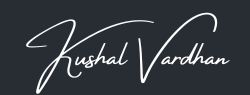
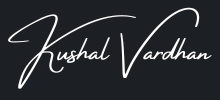
Home page completed ✅

Changed region(s): [[0.0273, 0.1263, 0.6273, 0.9895], [0.5455, 0.0632, 0.9818, 0.8842]]

diff --git a/frontend/src/components/Socials.jsx b/frontend/src/components/Socials.jsx
@@ -1,12 +1,24 @@
 import React from "react";
-import { twitter,linkedin,github,code,hashnode,discord,email } from "../assets/Icons.js";
+import {
+  twitter,
+  linkedin,
+  github,
+  code,
+  hashnode,
+  discord,
+  email,
+} from "../assets/Icons.js";
 
 const Socials = () => {
   return (
-    <div className="flex items-center justify-between border-1 border-[#941bb6] p-3">
-      <span className="text-2xl">Software Engineer and Web Developer</span>
-      <div className="flex items-center gap-5">
-        <a href="https://x.com/Kuvar2941" target="_blank" aria-label="Twitter">
+    <div className="flex items-center m-3 justify-center">
+      <div className="flex items-center gap-8">
+        <a
+          href="https://x.com/Kuvar2941"
+          target="_blank"
+          aria-label="Twitter"
+           className="inline-block transform transition-all duration-700 hover:scale-150"
+        >
           <img src={twitter} alt="Twitter" width={"35px"} />
         </a>
 
@@ -14,6 +26,7 @@ const Socials = () => {
           href="https://www.linkedin.com/in/kushalvardhan1804/"
           target="_blank"
           aria-label="LinkedIn"
+            className="inline-block transform transition-all duration-700 hover:scale-150 "
         >
           <img src={linkedin} alt="LinkedIn" width={"35px"} />
         </a>
@@ -22,6 +35,7 @@ const Socials = () => {
           href="https://github.com/Kushalvardhan18"
           target="_blank"
           aria-label="GitHub"
+           className="inline-block transform transition-all duration-700 hover:scale-150 "
         >
           <img src={github} alt="GitHub" width={"35px"} />
         </a>
@@ -30,6 +44,7 @@ const Socials = () => {
           href="https://leetcode.com/u/Kuvar2941/"
           target="_blank"
           aria-label="LeetCode"
+          className="inline-block transform transition-all duration-700 hover:scale-150 "
         >
           <img src={code} alt="LeetCode" width={"35px"} />
         </a>
@@ -38,6 +53,7 @@ const Socials = () => {
           href="https://discord.gg/5vy8sWr4Nd"
           target="_blank"
           aria-label="Discord"
+           className="inline-block transform transition-all duration-700 hover:scale-150 "
         >
           <img src={discord} alt="Discord" width={"35px"} />
         </a>
@@ -46,11 +62,17 @@ const Socials = () => {
           href="https://hashnode.com/@kuvar2941"
           target="_blank"
           aria-label="HashNode"
+            className="inline-block transform transition-all duration-700 hover:scale-150 "
         >
           <img src={hashnode} alt="HashNode" width={"35px"} />
         </a>
 
-        <a href="" target="_blank" aria-label="Email">
+        <a
+          href=""
+          target="_blank"
+          aria-label="Email"
+          className="inline-block transform transition-all duration-700 hover:scale-150 "
+        >
           <img src={email} alt="Email" width={"35px"} />
         </a>
       </div>

diff --git a/frontend/src/App.jsx b/frontend/src/App.jsx
@@ -1,44 +1,21 @@
-import Socials from "./components/Socials";
-import Navigations from "./components/Navigations";
-import { pronounce } from "./assets/Icons";
-import { myPic } from "./assets/images";
-
+import Home from "./pages/Home.jsx";
+import ContactMe from "./pages/ContactMe.jsx"
+import HireMe from "./pages/HireMe.jsx"
+import About from "./pages/About.jsx"
+import {BrowserRouter as Router,Routes,Route } from "react-router-dom";
 function App() {
   return (
-    <div className="mx-5 my-2">
-      <div className="flex gap-50">
-        <Navigations />
-        <div className="my-15 w-full">
-          <div className="my-5">
-            <img
-              src={myPic}
-              alt="ProfilePicture"
-              className="w-50  rounded-xl"
-            />
-            <span>
-              Surpass your{" "}
-              <span className="!text-red-500 font-semibold">LIMITS</span>. Right{" "}
-              <span className="!text-yellow-500 font-semibold">Here</span> Right{" "}
-              <span className="!text-green-500 font-semibold">Now</span>.
-            </span>
-          </div>
-          <span className="text-6xl">Kushal Vardhan</span>
-          <span>
-            <img src={pronounce} alt="pronounce" />
-            ku-shaa-l var-dhan
-          </span><br />
-          <span>Software Developer From India IN </span>
-          <p className="!text-[#fffb00] text-3xl">
-            "Building Impactful software with curiosity and code"
-          </p>
-          <div className="flex gap-5 m-2">
-            <button className="border-1 p-2 rounded-md">Contact Me</button>
-            <button className="border-1 p-2 rounded-md">Download Resume</button>
-          </div>
-        </div>
-      </div>
-      <Socials />
-    </div>
+    <>
+      <Router>
+        <Routes>
+          <Route path="/" element={<Home />} />
+          <Route path="/about" element={<About />} />
+          <Route path="/hireme" element={<HireMe />} />
+          {/* <Route path="/projects" element={<Projects />} /> */}
+          <Route path="/contact" element={<ContactMe />} />
+        </Routes>
+      </Router>
+    </>
   );
 }
 

diff --git a/frontend/src/components/Navigations.jsx b/frontend/src/components/Navigations.jsx
@@ -1,27 +1,27 @@
 import React from "react";
-import ShowLabelIcons from "../assets/ShowLabelIcons.jsx";
+import ShowLabelIcons from "./ShowLabelIcons.jsx";
 import { home, user, contact, hireme } from "../assets/Icons.js";
 import { signature } from "../assets/images.js";
 
 const Navigations = () => {
   return (
     <div className="flex flex-col my-2">
-      <div className="cursor-pointer">
+      <div className="cursor-pointer fixed">
         <img src={signature} alt="logo" width="150px" />
       </div>
-      <nav className="flex flex-col gap-10 font-medium text-1xl h-100 justify-center w-50">
-        <a className="cursor-pointer flex items-center relative">
-          <ShowLabelIcons icon={home} label="Home" />
-        </a>
-        <a className="cursor-pointer flex items-center relative">
-          <ShowLabelIcons icon={user} label="Profile" />
-        </a>
-        <a className="cursor-pointer flex items-center relative">
-          <ShowLabelIcons icon={contact} label="Contact Me" />
-        </a>
-        <a className="cursor-pointer flex items-center relative ">
-          <ShowLabelIcons icon={hireme} label="Hire Me" />
-        </a>
+      <nav className="flex flex-col gap-10 font-medium text-1xl h-100 justify-center w-50 fixed top-25">
+        <div className="cursor-pointer flex items-center relative">
+          <ShowLabelIcons icon={home} label="Home" link ="/" />
+        </div>
+        <div className="cursor-pointer flex items-center relative">
+          <ShowLabelIcons icon={user} label="About" link ="/about" />
+        </div>
+        <div className="cursor-pointer flex items-center relative">
+          <ShowLabelIcons icon={contact} label="Contact Me" link ="/contact"/>
+        </div>
+        <div className="cursor-pointer flex items-center relative ">
+          <ShowLabelIcons icon={hireme} label="Hire Me" link ="/hireme" />
+        </div>
       </nav>
     </div>
   );

diff --git a/frontend/src/pages/Home.jsx b/frontend/src/pages/Home.jsx
@@ -1,0 +1,43 @@
+import Socials from "../components/Socials";
+import Navigations from "../components/Navigations";
+import { pronounce } from "../assets/Icons";
+import { myPic } from "../assets/images";
+const Home = () => {
+  return (
+    <div className=" my-2 mx-5 ">
+      <div className="flex">
+        <Navigations />
+        <div className="mt-15 mb-5 flex flex-col items-center justify-center  sticky left-95 gap-5">
+          <div className="flex flex-col items-center">
+            <img src={myPic} alt="ProfilePicture" className="w-40 rounded-xl" />
+            <span>
+              Surpass your{" "}
+              <span className="!text-red-500 font-semibold">LIMITS</span>. Right{" "}
+              <span className="!text-yellow-500 font-semibold">Here</span> Right{" "}
+              <span className="!text-green-500 font-semibold">Now</span>.
+            </span>
+          </div>
+          <span className="text-6xl font-extrabold">KUSHAL VARDHAN</span>
+          <span className="flex gap-2 items-center  !text-cyan-500">
+            <img src={pronounce} alt="pronounce" width={20} />
+            ku-shaa-l var-dhan
+          </span>
+          <span className="text-2xl">
+            Software Developer From India{" "}
+            <strong>
+              {" "}
+             IN
+            </strong>
+          </span>
+          <p className="!text-[#b8b8b1] text-xl text-center">
+            "Building Impactful Software with Curiosity and Code"
+          </p>
+        </div>
+      </div>
+        <Socials />
+
+    </div>
+  );
+};
+
+export default Home;

diff --git a/frontend/src/pages/About.jsx b/frontend/src/pages/About.jsx
@@ -1,0 +1,35 @@
+import React from "react";
+import Navigations from "../components/Navigations";
+const About = () => {
+  return (
+    <div className="mx-5 my-2">
+      <div className="flex gap-50">
+        <Navigations />
+        <div className="flex flex-col justify-center gap-5">
+          <span className="!text-[#c778dd] text-2xl ">About Me</span>
+          <p className="text-xl">
+            Hi, I'm Kushal Vardhan, a 24-year-old{" "}
+            <span className="!text-[#c778dd]">Software Developer</span> with a
+            passion for problem-solving and exploring the intricacies of
+            technology. I specialize in Java programming, with expertise in{" "}
+            <span className="!text-[#c778dd]"> Algorithms </span>,
+            <span className="!text-[#c778dd]"> Data Structures </span> ,{" "}
+            <span className="!text-[#c778dd]">JAVA</span> and{" "}
+            <span className="!text-[#c778dd]">Web Development </span> . With a
+            strong foundation in software development. In my free time, you
+            might find me experimenting with projects or enhancing my GitHub
+            portfolio.
+          </p>
+          <span>Let's connect and createsomething impactful together!</span>
+          <br />
+          <div className="flex gap-5 m-2">
+            <button className="border-1 p-2 rounded-md">Hire Me</button>
+            <button className="border-1 p-2 rounded-md">Download Resume</button>
+          </div>
+        </div>
+      </div>
+    </div>
+  );
+};
+
+export default About;

diff --git a/frontend/src/components/ShowLabelIcons.jsx b/frontend/src/components/ShowLabelIcons.jsx
@@ -1,0 +1,26 @@
+import { useState } from "react";
+import { NavLink } from "react-router-dom";
+
+const ShowLabelIcons = ({ icon, label, link }) => {
+  const [show, setShow] = useState(false);
+  return (
+    <>
+      <NavLink to={link}>
+        <img
+          src={icon}
+          alt={label}
+          className="p-1.5 rounded-md  hover:!bg-[#941bb6] w-9 transition duration-500 "
+          onMouseEnter={() => setShow(true)}
+          onMouseLeave={() => setShow(false)}
+        />
+      </NavLink>
+      {show && (
+        <strong className="ml-2 transition-opacity duration-200">
+          {label}
+        </strong>
+      )}
+    </>
+  );
+};
+
+export default ShowLabelIcons;

diff --git a/frontend/src/pages/ContactMe.jsx b/frontend/src/pages/ContactMe.jsx
@@ -1,0 +1,14 @@
+import React from 'react'
+import Navigations from "../components/Navigations";
+const ContactMe = () => {
+  return (
+    <div className="mx-5 my-2">
+      <div className="flex gap-50">
+          <Navigations />
+          <h1>Contact Me</h1>
+    </div>
+    </div>
+  )
+}
+
+export default ContactMe

diff --git a/frontend/src/pages/HireMe.jsx b/frontend/src/pages/HireMe.jsx
@@ -1,0 +1,14 @@
+import React from "react";
+import Navigations from "../components/Navigations";
+const HireMe = () => {
+  return (
+    <div className="mx-5 my-2">
+      <div className="flex gap-50">
+        <Navigations />
+        <h1>Hire Me</h1>
+      </div>
+    </div>
+  );
+};
+
+export default HireMe;

diff --git a/frontend/src/index.css b/frontend/src/index.css
@@ -1,7 +1,7 @@
 @import "tailwindcss";
 
 *{
-    background:#282C33;
+    background:#1c1f24;
     color: white;
     font-family: 'Gill Sans', 'Gill Sans MT', Calibri, 'Trebuchet MS', sans-serif;
 
